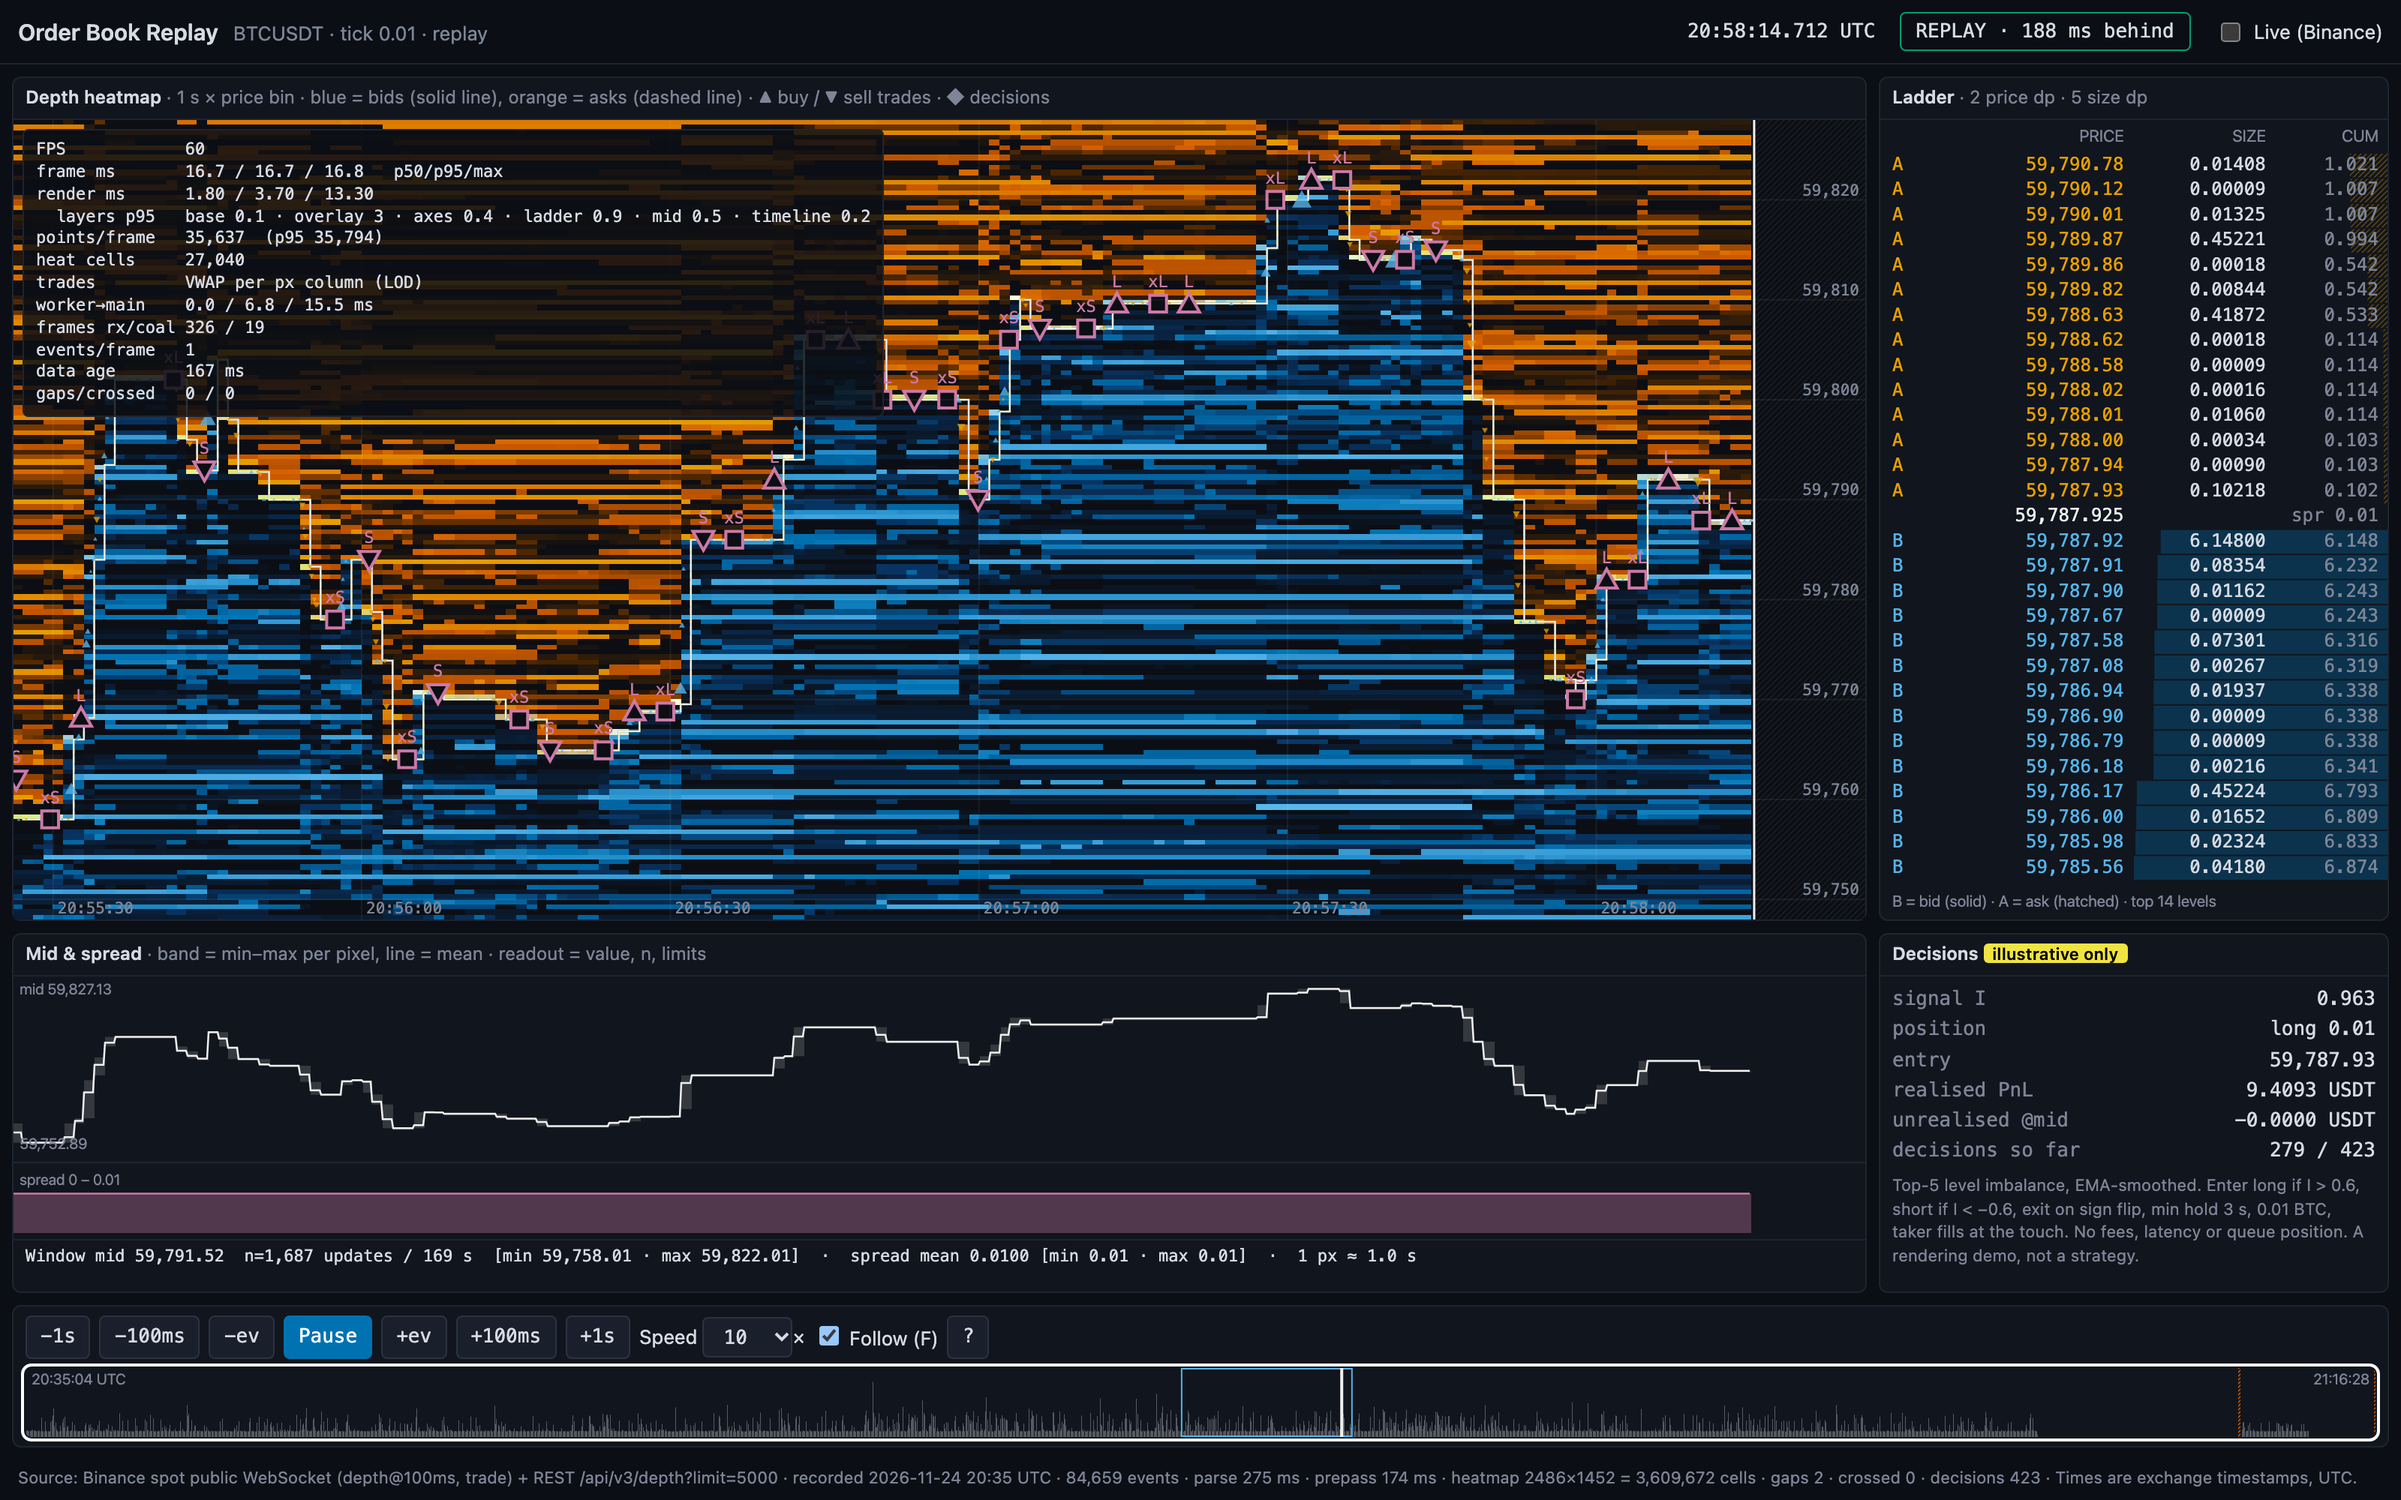
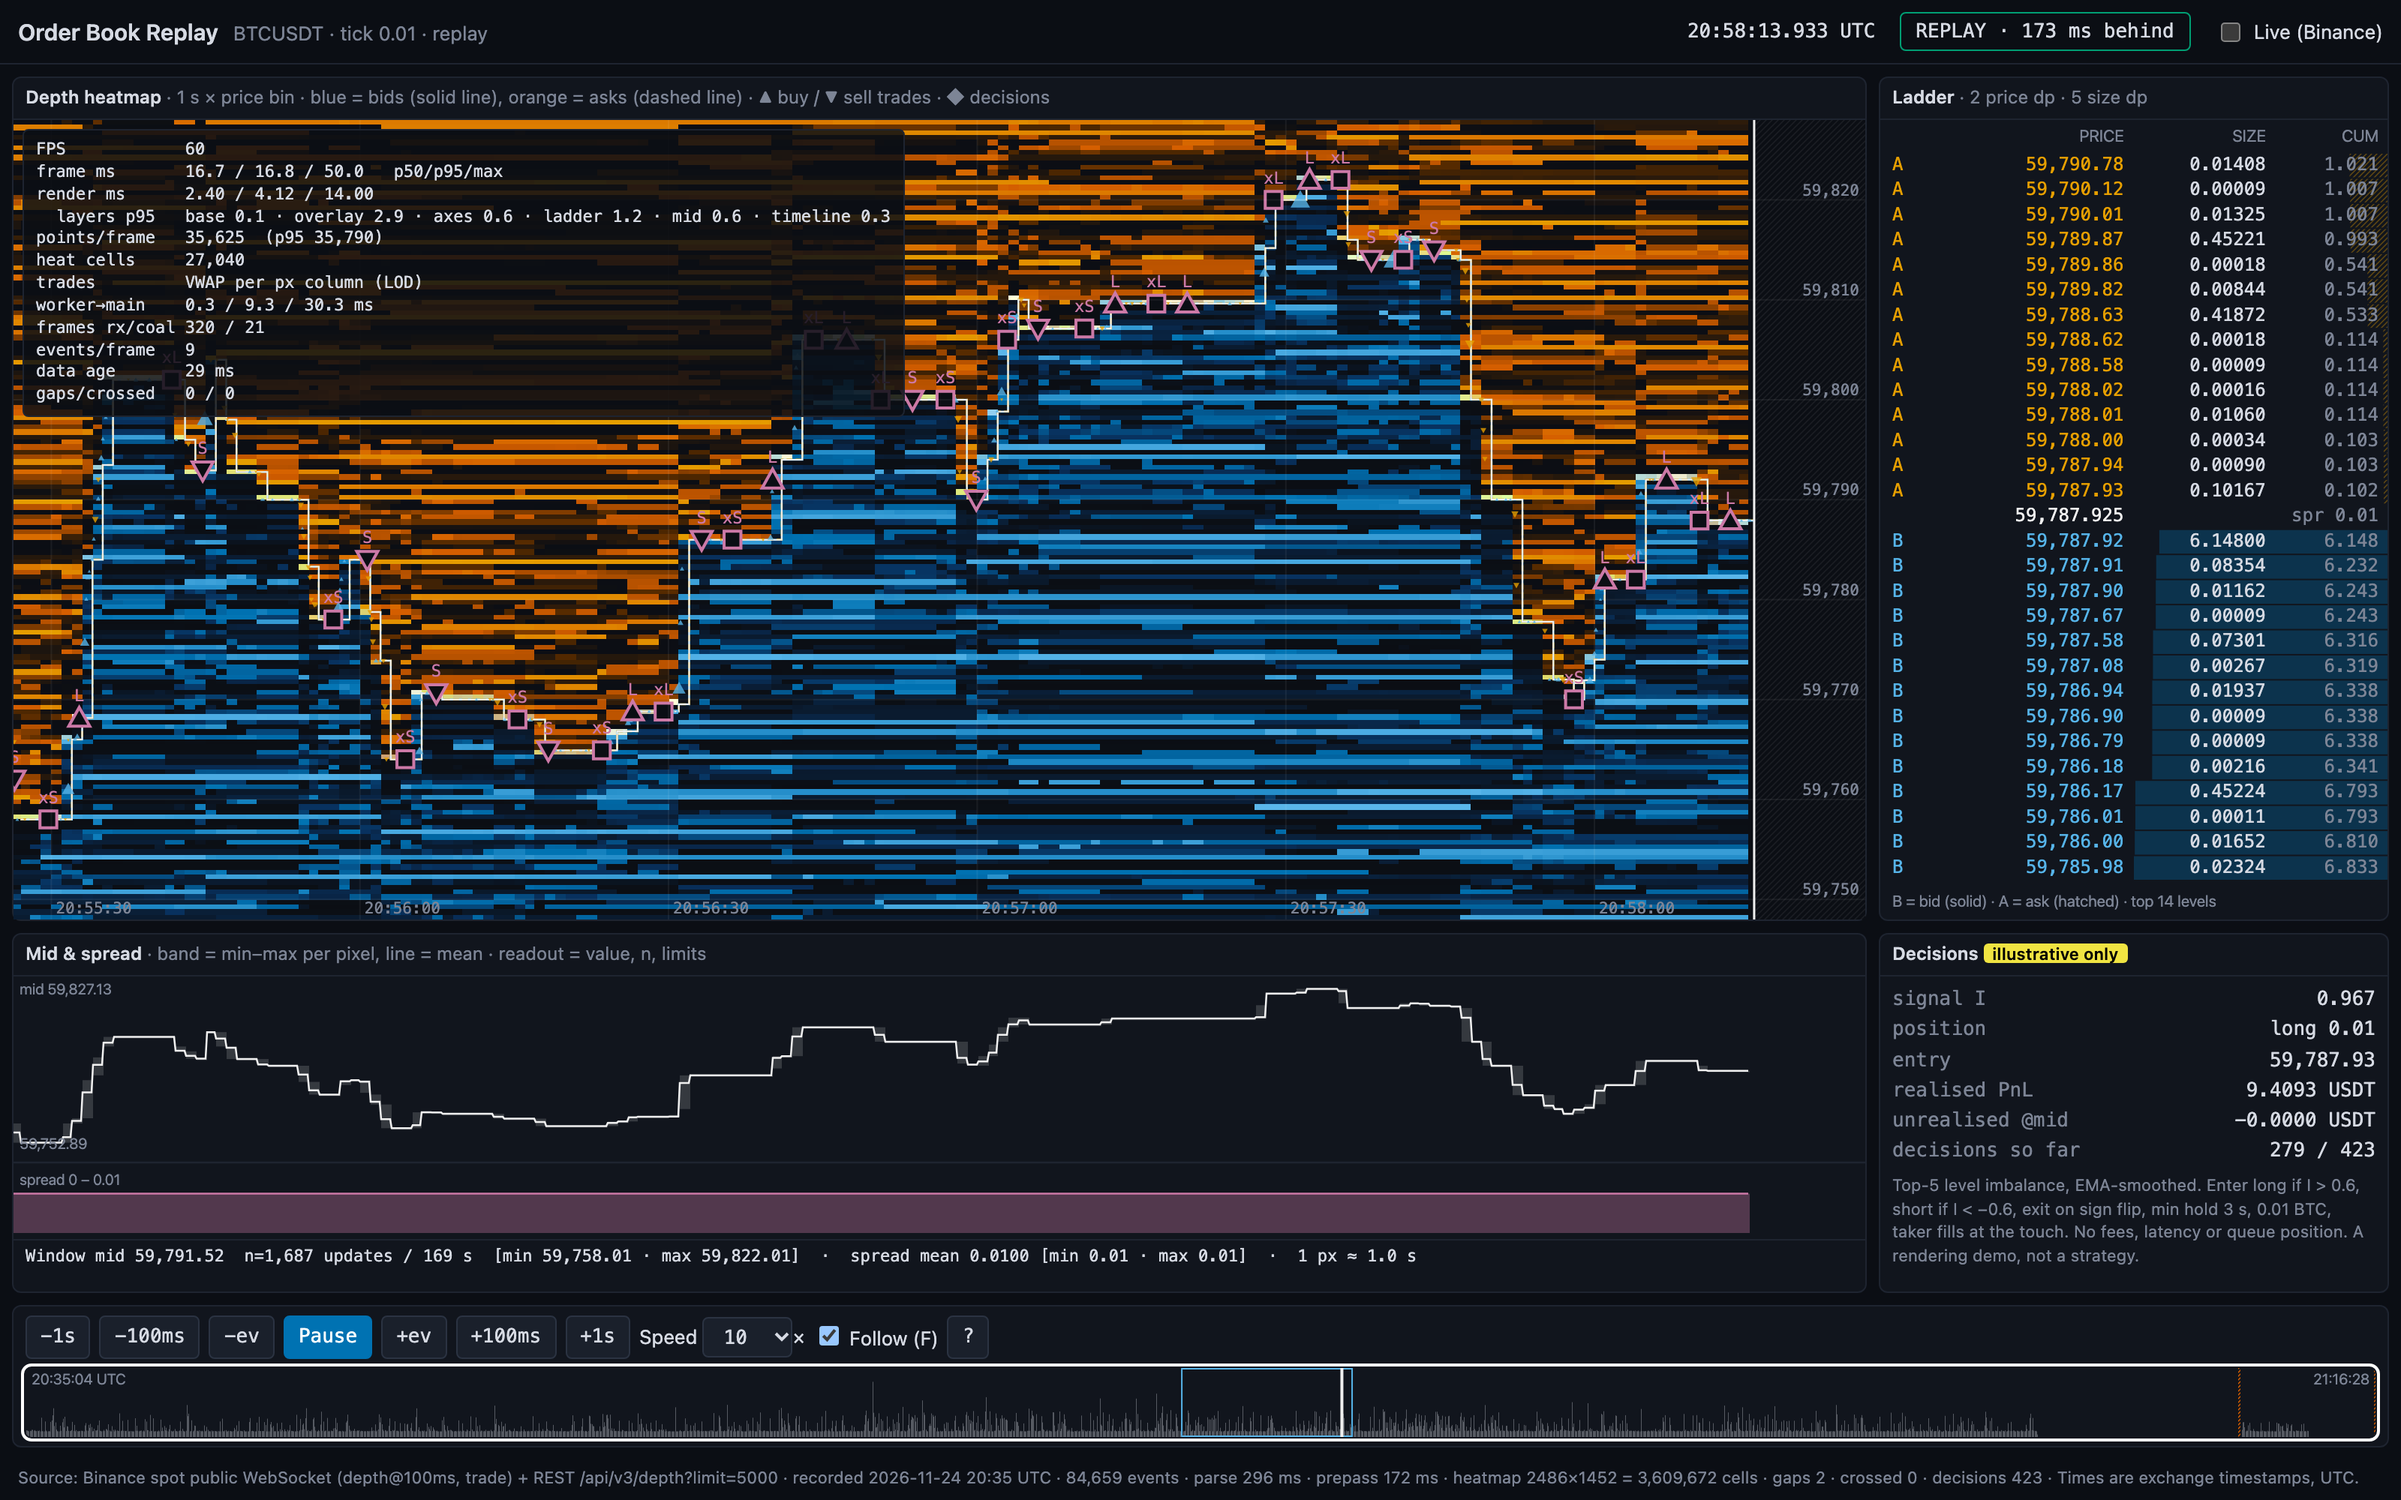
Fix intro/help close button inside sandboxed iframes
<form method="dialog"> is a form submission, which a sandbox without
allow-forms blocks; use a plain button that calls dialog.close().

diff --git a/scripts/e2e.ts b/scripts/e2e.ts
@@ -136,7 +136,9 @@ try {
   await page.keyboard.press('?');
   const open = await page.locator('dialog#help').evaluate((d) => (d as HTMLDialogElement).open);
   check('help dialog (?)', open, 'opened');
-  await page.keyboard.press('Escape');
+  await page.locator('#helpClose').click(); // the button path (Esc is tested above)
+  const closedByButton = !(await page.locator('dialog#help').evaluate((d) => (d as HTMLDialogElement).open));
+  check('help dialog closes via its button', closedByButton, `closed=${closedByButton}`);
 
   // prefers-reduced-motion: the window pages in steps instead of scrolling every frame
   await page.emulateMedia({ reducedMotion: 'reduce' });

diff --git a/index.html b/index.html
@@ -153,7 +153,8 @@
         </tr>
       </table>
       <p class="dim small">Heatmap: wheel = zoom time, Shift+wheel = zoom price, drag = pan.</p>
-      <form method="dialog"><button autofocus>Got it</button></form>
+      <!-- plain button, not <form method="dialog">: sandboxed iframes without allow-forms block that submit -->
+      <button id="helpClose" type="button" autofocus>Got it</button>
     </dialog>
 
     <footer class="foot dim small" id="foot"></footer>

diff --git a/src/main.ts b/src/main.ts
@@ -315,6 +315,7 @@ function setLive(on: boolean): void {
 liveBox.onchange = () => setLive(liveBox.checked);
 const help = $<HTMLDialogElement>('help');
 $('bHelp').onclick = () => help.showModal();
+$('helpClose').onclick = () => help.close();
 // First visit: show the "What you're looking at" overlay once. Skipped in benchmark mode or with ?intro=0.
 // Static dialog, no animation, so prefers-reduced-motion needs nothing extra here.
 const INTRO_KEY = 'obr.introSeen';
